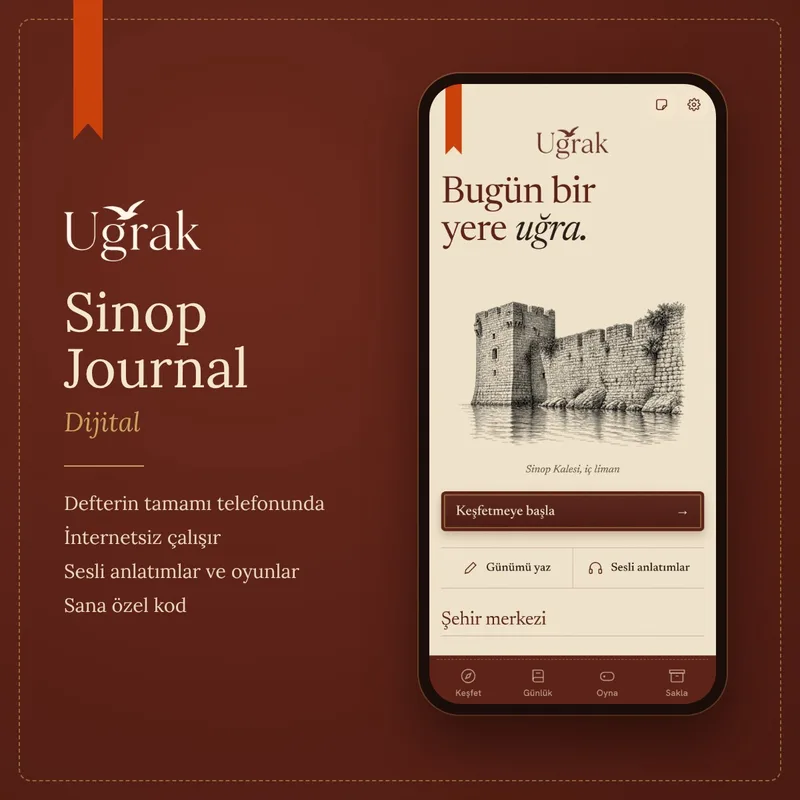
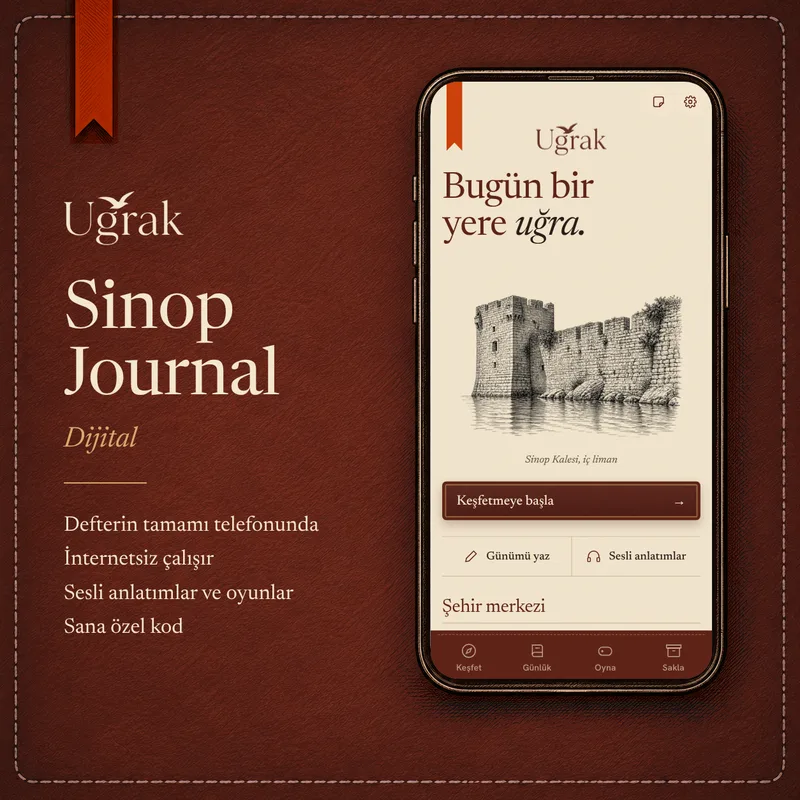
Ürün kartları tek sistem: Sinop Amasra'yla aynı deri şablonda, Martı keten şablonda (panel 9,4 → set düzeltmesi)
Claude-Session: https://claude.ai/code/session_01Q83VamjWSBJz6GmystV1Hn

Changed region(s): [[0.5, 0.0625, 0.9375, 0.9375], [0.0, 0.0, 1.0, 1.0], [0.625, 0.9688, 0.9688, 1.0]]

diff --git a/index.html b/index.html
@@ -337,7 +337,7 @@ footer p{font-family:var(--f-serif);font-style:italic;color:var(--muted)}
         <p class="note">Sıralama ziyaretçi sayısı, hediyelik alışveriş kültürü, hikâye zenginliği ve on iki aya yayılma ölçütlerine göre yapıldı. Tarih vermiyoruz; bir şehir ancak defteri hazır olduğunda satışa çıkar.</p>
 
         <article id="dijital-journal" style="display:grid;grid-template-columns:minmax(0,1fr) minmax(0,1.1fr);gap:40px;align-items:center;border-top:1px solid var(--rule);padding-top:40px">
-          <div class="shot" style="aspect-ratio:1/1;max-width:100%"><img src="sinop-journal-dijital.webp" width="800" height="800" alt="Sinop Journal Dijital: deri zemin üzerinde telefonda açık uygulama, Sinop Kalesi gravürü" style="width:100%;height:auto"></div>
+          <div class="shot" style="aspect-ratio:1/1;max-width:100%"><img src="sinop-journal-dijital.webp?v=2" width="800" height="800" alt="Sinop Journal Dijital: deri zemin üzerinde telefonda açık uygulama, Sinop Kalesi gravürü" style="width:100%;height:auto"></div>
           <div style="display:grid;gap:16px;min-width:0">
             <div class="meta" style="display:flex;justify-content:space-between;gap:16px;flex-wrap:wrap"><span class="label">Uğrak Şehir · Dijital</span><span class="label">Şimdi satışta</span></div>
             <div><h3>Sinop Journal · Dijital</h3><span class="en">The city journal on your phone</span></div>
@@ -375,7 +375,7 @@ footer p{font-family:var(--f-serif);font-style:italic;color:var(--muted)}
           </div>
         </article>
         <article id="marti-defterleri" style="display:grid;grid-template-columns:minmax(0,1fr) minmax(0,1.1fr);gap:40px;align-items:center;border-top:1px solid var(--rule);padding-top:40px">
-          <div class="shot" style="aspect-ratio:1200/630;max-width:100%"><img src="dijital/set.webp?v=4" width="1200" height="630" loading="lazy" alt="Martı'nın Defterleri: Merak Defteri, İlk Kelimeler ve Şehrini Keşfet kapakları" style="width:100%;height:auto"></div>
+          <div class="shot" style="aspect-ratio:1/1;max-width:100%"><img src="marti-defterleri.webp" width="800" height="800" loading="lazy" alt="Martı'nın Defterleri: krem keten zeminde Merak Defteri, İlk Kelimeler ve Şehrini Keşfet kapakları" style="width:100%;height:auto"></div>
           <div style="display:grid;gap:16px;min-width:0">
             <div class="meta" style="display:flex;justify-content:space-between;gap:16px;flex-wrap:wrap"><span class="label">Uğrak Çocuk · Dijital</span><span class="label">Satışta</span></div>
             <div><h3>Martı'nın Defterleri</h3><span class="en">Martı's notebooks for curious kids</span></div>
